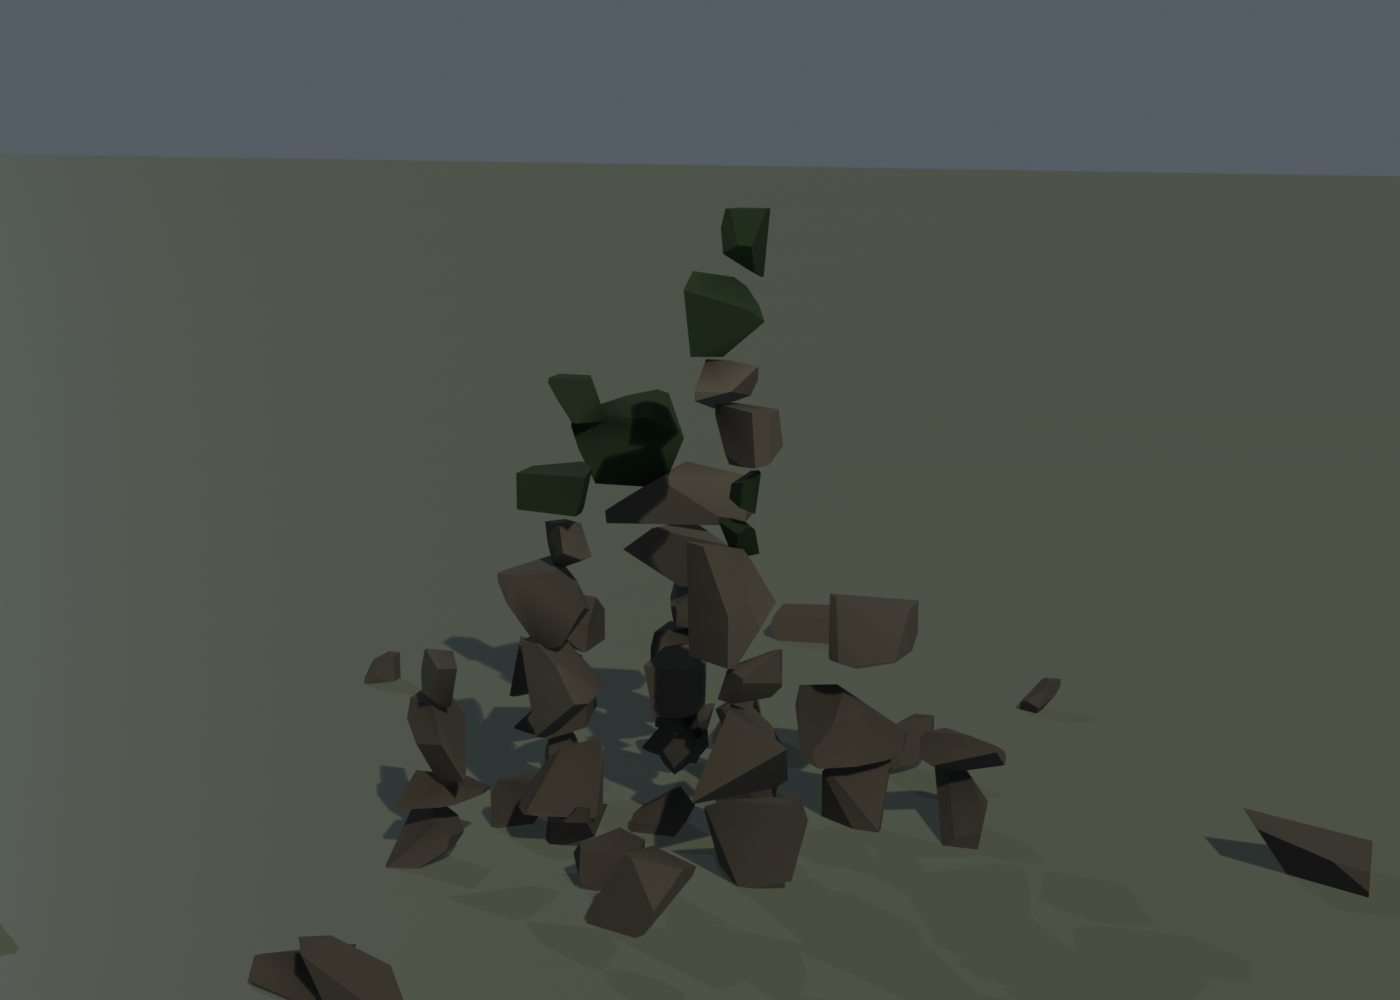
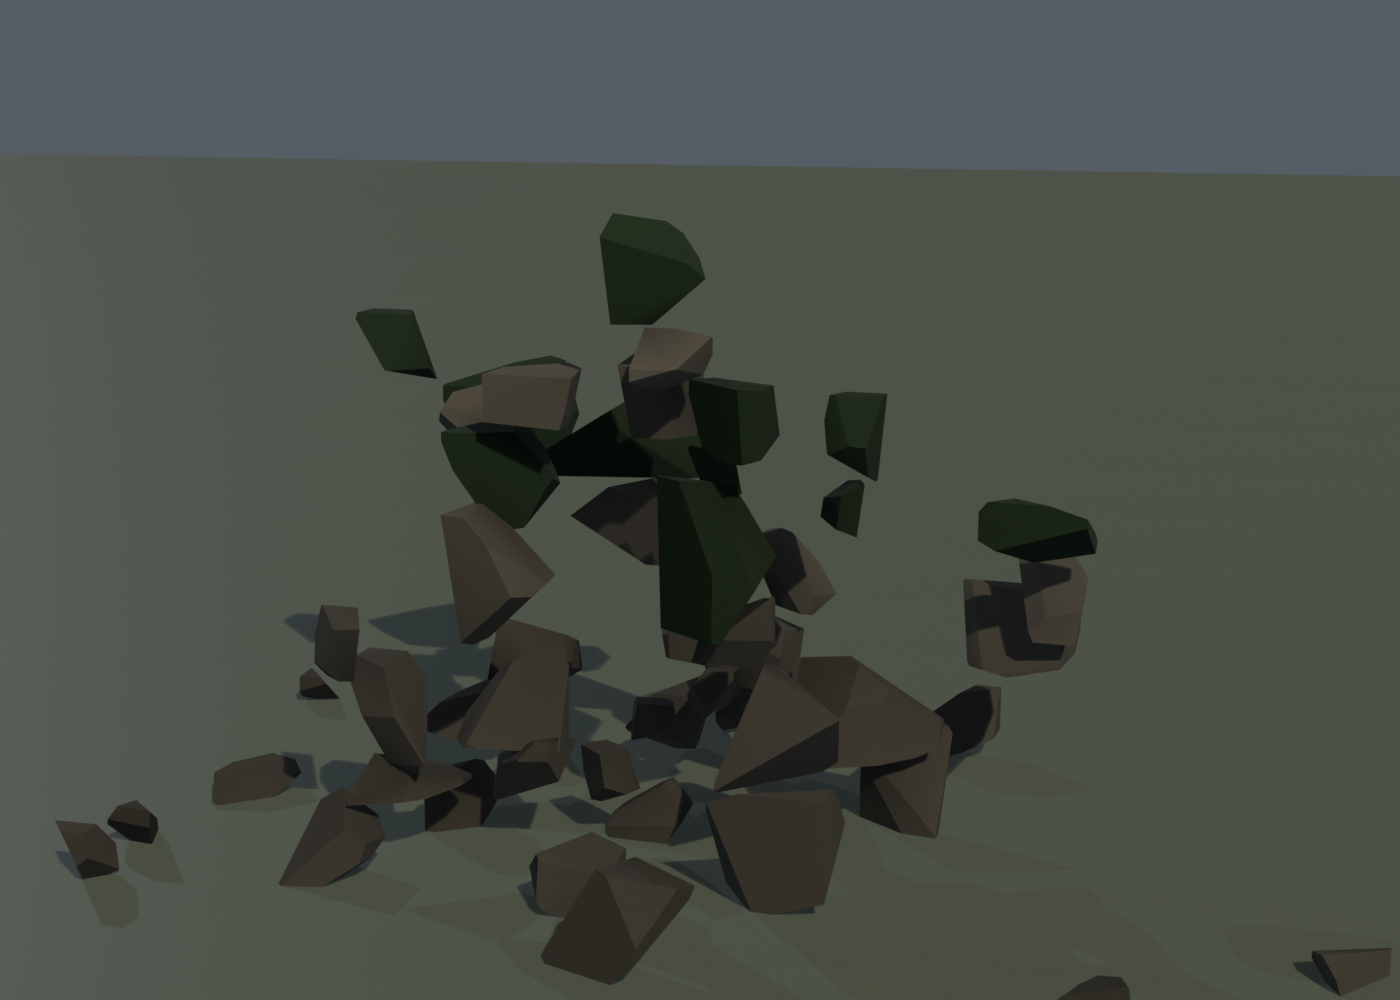
revert(biome_facet): remove the slide retry - it built chimneys, not piles
The slide-toward-contacts retry added one commit ago pulled under-supported
stones toward the centroid of what they touched. That aligns them into the same
plan column, so each settles on top of the last: formations came out as thin
vertical chimneys metres tall and one stone wide. Split measured 1.94 m and is
back to 1.24 m with the retry gone.

It was visible instantly in the eye-height render, which was not opened before
that build was reported and committed. Joan caught it: 'se supone tambien ver la
generacion, ese monton de piedras que dijiste que estaba bien, desde la primer
analisis podia notarse que no'. He is right, and the metric had said so too -
46/56 under-supported is not 'needs work', it is 'the structure does not exist',
and it got softened in the report.

Kept from that pass: the shallower bite and the support count, both true and
useful. Dropped: a fix that cannot work, since adding contacts is a placement
problem and not a nudge.

Current state, verified by looking rather than asserted: the formations are now
a loose swarm with visible air between nearly every stone. At bite 0.60 they
interpenetrated - welded, physically wrong. At 0.86 they do not touch at all -
wrong the other way. Both bounds are wrong because hr and hz are MAXIMUM extents
along their own axes, so contact computed from them misses in every other
direction. Real contact needs the extent along the contact direction.

diff --git a/recetas/biome_facet.py b/recetas/biome_facet.py
@@ -501,37 +501,34 @@ def add_stone_aggregate(bm, vcol, center, spec, rng):
     #
     # So the bite is shallower now, and a stone that lands unsupported is slid
     # toward the centroid of what it touches until it is.
+    # A slide-toward-contacts retry lived here for exactly one build and is gone.
+    # It pulled under-supported stones toward the centroid of what they touched,
+    # which aligns them into the SAME plan column, so each one then settled on top
+    # of the last: the formations came out as thin vertical chimneys metres tall
+    # and one stone wide. Physically absurd, and visible instantly in the
+    # eye-height render -- which was not opened before that build was committed.
+    #
+    # Two things are kept from that pass because both are true and useful:
+    # the shallower bite, and the support count. What is NOT kept is a fix that
+    # cannot work: adding contacts is a placement problem, not a nudge.
     bite = spec.get("settle_bite", 0.86)        # 0.86 => ~14% burial at contact
     for i, b in enumerate(blanks):
-        for _attempt in range(4):
-            z = b["hz"] * 0.72                  # resting on the ground
-            contacts = []
-            for p in blanks[:i]:
-                reach_h = bite * (b["hr"] + p["hr"])
-                reach_v = bite * (b["hz"] + p["hz"])
-                d = math.hypot(b["x"] - p["x"], b["y"] - p["y"])
-                if d < reach_h:
-                    drop = reach_v * math.sqrt(max(0.0, 1.0 - (d / reach_h) ** 2))
-                    cz = p["z"] + drop
-                    contacts.append((cz, p))
-                    z = max(z, cz)
-            if not contacts:
-                break                            # on the ground: fully supported
-            # Only the stones it actually TOUCHES hold it up; anything lower is
-            # not in contact and carries no load.
-            tol = b["hz"] * 0.25
-            bearing = [p for cz, p in contacts if cz >= z - tol]
-            if len(bearing) >= 3:
-                break
-            # Under-supported. Slide toward the centroid of what it does touch --
-            # which is what a stone rolling into a gap actually does -- and try
-            # to settle again.
-            cx = sum(p["x"] for p in bearing) / len(bearing)
-            cy = sum(p["y"] for p in bearing) / len(bearing)
-            b["x"] += (cx - b["x"]) * 0.45
-            b["y"] += (cy - b["y"]) * 0.45
+        z = b["hz"] * 0.72                      # resting on the ground
+        contacts = []
+        for p in blanks[:i]:
+            reach_h = bite * (b["hr"] + p["hr"])
+            reach_v = bite * (b["hz"] + p["hz"])
+            d = math.hypot(b["x"] - p["x"], b["y"] - p["y"])
+            if d < reach_h:
+                drop = reach_v * math.sqrt(max(0.0, 1.0 - (d / reach_h) ** 2))
+                cz = p["z"] + drop
+                contacts.append(cz)
+                z = max(z, cz)
         b["z"] = z
-        b["bearing"] = len(bearing) if contacts else 0
+        # Only the stones it actually TOUCHES carry load; anything lower is not in
+        # contact. Reported, not acted on: see the note above.
+        tol = b["hz"] * 0.25
+        b["bearing"] = sum(1 for cz in contacts if cz >= z - tol)
 
     # Height is an OUTCOME of the packing, so the formation is rescaled to honour
     # the spec — but UNIFORMLY, positions and stone geometry together. Scaling Z
